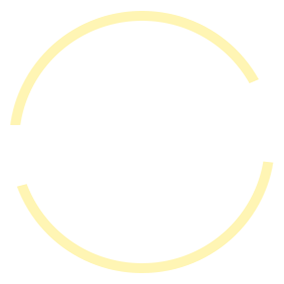
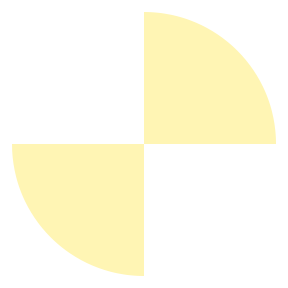
ref:调整抽奖动画

diff --git a/src/luckdraw/view/drawview.js b/src/luckdraw/view/drawview.js
@@ -22,7 +22,6 @@ export default class DrawView extends React.Component {
       totalName: null,//参与抽奖人员
       luckName: [],//本轮获奖人员
       luckAvatar: null,
-      animateRoteId: null,
       arrayNum: [checkin, triangle],
       arraySum: 0,
       luckNameSum: 0,
@@ -41,6 +40,8 @@ export default class DrawView extends React.Component {
     type: 'showAvatar',
     interval: 800,
     delay: 0,
+    min: null,
+    max: null,
   }
 
   componentDidMount() {
@@ -50,11 +51,10 @@ export default class DrawView extends React.Component {
           this.setPrize(res['data']['data']['award'], res['data']['data']['persions']);
           this.state.totalName = res['data']['users'];
           this.state.arraySum = 0;
-          this.setAnimaterote(true, true, false);
+          this.setAnimaterote(true, false);
           this.setLucklist(res['data']['data']['winners'], res['data']['data']['winners'].length);
           if (res.data.data.is_progress) {
-            this.circle = { type: 'showLuck', interval: 200, delay: 0 };
-            this.showLuck();
+            this.setCircle('showLuck', 250);
           } else {
             this.showAvatar();
           }
@@ -66,25 +66,23 @@ export default class DrawView extends React.Component {
     echo.channel('configuration')
       .listen('ConfigurationSave', (arg) => {
         this.setPrize(arg['data']['award'], arg['data']['persions']);
-        this.setAnimaterote(true, true, false);
+        this.setAnimaterote(true, false);
         this.setLucklist(null, 0);
         this.state.showName = null;
         this.state.showNumber = null;
         this.state.arraySum = 0;
         this.state.totalName = arg['users'];
-        clearTimeout(this.state.animateRoteId);
-        this.circle = { type: 'showAvatar', interval: 800, delay: 0 };
-        this.showAvatar();
+        this.setCircle('showAvatar');
       })
       .listen('ConfigurationUpdate', (arg) => {
         this.setPrize(arg['data']['award'], arg['data']['persions']);
-        this.setAnimaterote(true, true, false);
+        this.setAnimaterote(true, false);
         this.setLucklist(null, 0);
         this.state.showName = null;
         this.state.showNumber = null;
         this.state.arraySum = 0;
         this.state.totalName = arg['users'];
-        this.circle = { type: 'showAvatar', interval: 800, delay: 0 };
+        this.setCircle('showAvatar');
       })
 
     echo.channel('draw')
@@ -94,37 +92,35 @@ export default class DrawView extends React.Component {
         //设置中奖name
         this.setLucklist([], 0);
         //设置rote区
-        this.setAnimaterote(true, false, true);
+        this.setAnimaterote(true, true);
         this.state.arraySum = 0;
         this.state.totalName = arg['users'];
-        clearTimeout(this.state.animateRoteId);
-        this.circle = { type: 'showLuck', interval: 200, delay: 0 };
-        this.showLuck();
+        this.setCircle('showLuck', 600, -100, 250);
       })
       .listen(
         'DrawStop',
         (arg) => {
-          this.circle = { type: 'showLuck', interval: 300, delay: 400 };
+          console.log('stop');
+          this.setCircle('showLuck', 300, 300);
           setTimeout(() => {
             let { luckName } = this.state;
             this.state.arraySum = luckName ? luckName.length : 0;
-            this.setAnimaterote(false, false, false);
+            this.setAnimaterote(false, false);
             const luckUsers = luckName ? [...luckName, ...arg['users']] : arg['users'];
             const luckNum = luckName ? luckName.length - 1 : -1;
             this.state.animateRoteNumber = arg['users'].length;
             this.setLucklist(luckUsers, luckNum);
             localStorage.setItem('luckName', this.state.luckName);
             this.state.totalName = null;
-            this.circle = { type: 'showWinluck', interval: 2000, delay: 0 };
-          }, 1000);
+            this.setCircle('showWinluck', 2000);
+          }, 1500);
         }
       )
       .listen('DrawContinue', (arg) => {
-        this.setAnimaterote(true, false, true);
+        this.setAnimaterote(true, true);
         this.state.arraySum = 0;
         this.state.totalName = arg['users'];
-        this.circle = { type: 'showLuck', interval: 200, delay: 0 };
-        this.showLuck();
+        this.setCircle('showLuck', 250);
       });
     echo.channel('winner')
       .listen('WinnerAbandon', (arg) => {
@@ -147,6 +143,14 @@ export default class DrawView extends React.Component {
       })
   }
 
+  setCircle = (type, interval = 800, delay = 0, min = null, max = null) => {
+    console.log(this.animateTimeout);
+    this.circle = { type, interval, delay, min, max };
+    if (!this.animateTimeout) {
+      this[type]();
+    }
+  }
+
   setPrize = (award, persions) => {
     this.setState({
       award: award,
@@ -159,9 +163,8 @@ export default class DrawView extends React.Component {
     this.state.luckNameSum = luckNum;
   }
 
-  setAnimaterote = (circleIsvisible, animateCircle, arrowIsvisible) => {
+  setAnimaterote = (circleIsvisible, arrowIsvisible) => {
     this.state.circleIsvisible = circleIsvisible;
-    // this.state.timePerCircle = animateCircle ? 1.5 : 0.5;
     this.state.arrowIsvisible = arrowIsvisible;
   }
   showAvatar = () => {
@@ -175,7 +178,7 @@ export default class DrawView extends React.Component {
       arraySum: this.state.arraySum + 1,
       luckAvatar: this.state.totalName[this.state.arraySum]['avatar']
     });
-    this.state.animateRoteId = setTimeout(() => {
+    this.animateTimeout = setTimeout(() => {
       this[this.circle.type]();
     }, this.circle.interval);
   }
@@ -186,15 +189,17 @@ export default class DrawView extends React.Component {
       this.state.totalName.sort(() => 0.5 - Math.random())
     }
     this.circle.interval += this.circle.delay;
+    if (this.circle.max && this.circle.interval >= this.circle.max) this.circle.interval = this.circle.max;
+    if (this.circle.min && this.circle.interval <= this.circle.min) this.circle.interval = this.circle.min;
     this.state.timePerCircle = this.circle.interval / 1000;
-    this.state.circleRotate += 160;
+    this.state.circleRotate += 100;
     this.setState({
       arraySum: this.state.arraySum + 1,
       luckAvatar: this.state.totalName[this.state.arraySum]['avatar'],
       showName: this.state.totalName[this.state.arraySum]['name'],
       showNumber: this.state.totalName[this.state.arraySum]['number']
     });
-    this.state.animateRoteId = setTimeout(() => {
+    this.animateTimeout = setTimeout(() => {
       this[this.circle.type]();
     }, this.circle.interval);
   }
@@ -209,7 +214,7 @@ export default class DrawView extends React.Component {
         showNumber: this.state.luckName[this.state.arraySum]['number'],
         showLuckImg: !this.state.showLuckImg
       });
-      this.state.animateRoteId = setTimeout(() => {
+      this.animateTimeout = setTimeout(() => {
         this[this.circle.type]();
       }, this.circle.interval);
     } else {
@@ -217,7 +222,8 @@ export default class DrawView extends React.Component {
         circleIsvisible: false,
         luckNameSum: this.state.luckNameSum + 1
       })
-      clearTimeout(this.state.animateRoteId)
+      clearTimeout(this.animateTimeout);
+      this.animateTimeout = null;
     }
   }
 
@@ -228,11 +234,12 @@ export default class DrawView extends React.Component {
         luckAvatar: this.state.luckName[this.state.arraySum]
       });
       const that = this;
-      this.state.animateRoteId = setTimeout(function () {
+      this.animateTimeout = setTimeout(function () {
         that.showWineprize(timeout);
       }, timeout);
     } else {
-      clearTimeout(this.state.animateRoteId)
+      clearTimeout(this.animateTimeout);
+      this.animateTimeout = null;
     }
   }
 

diff --git a/src/luckdraw/view/index.less b/src/luckdraw/view/index.less
@@ -65,12 +65,10 @@
       float: left;
       .prizerote-bg{
         position: absolute;
-        left:27px;
-        top:27px;
-        height:284px;
-        width:284px;
-        z-index:999;
-        // margin:10px;
+        left:16px;
+        top:16px;
+        height:306px;
+        width:306px;
         background:url('../../public/luckdraw/prizerote.png') 0 0 no-repeat;
         background-size:100% 100%;
       }
